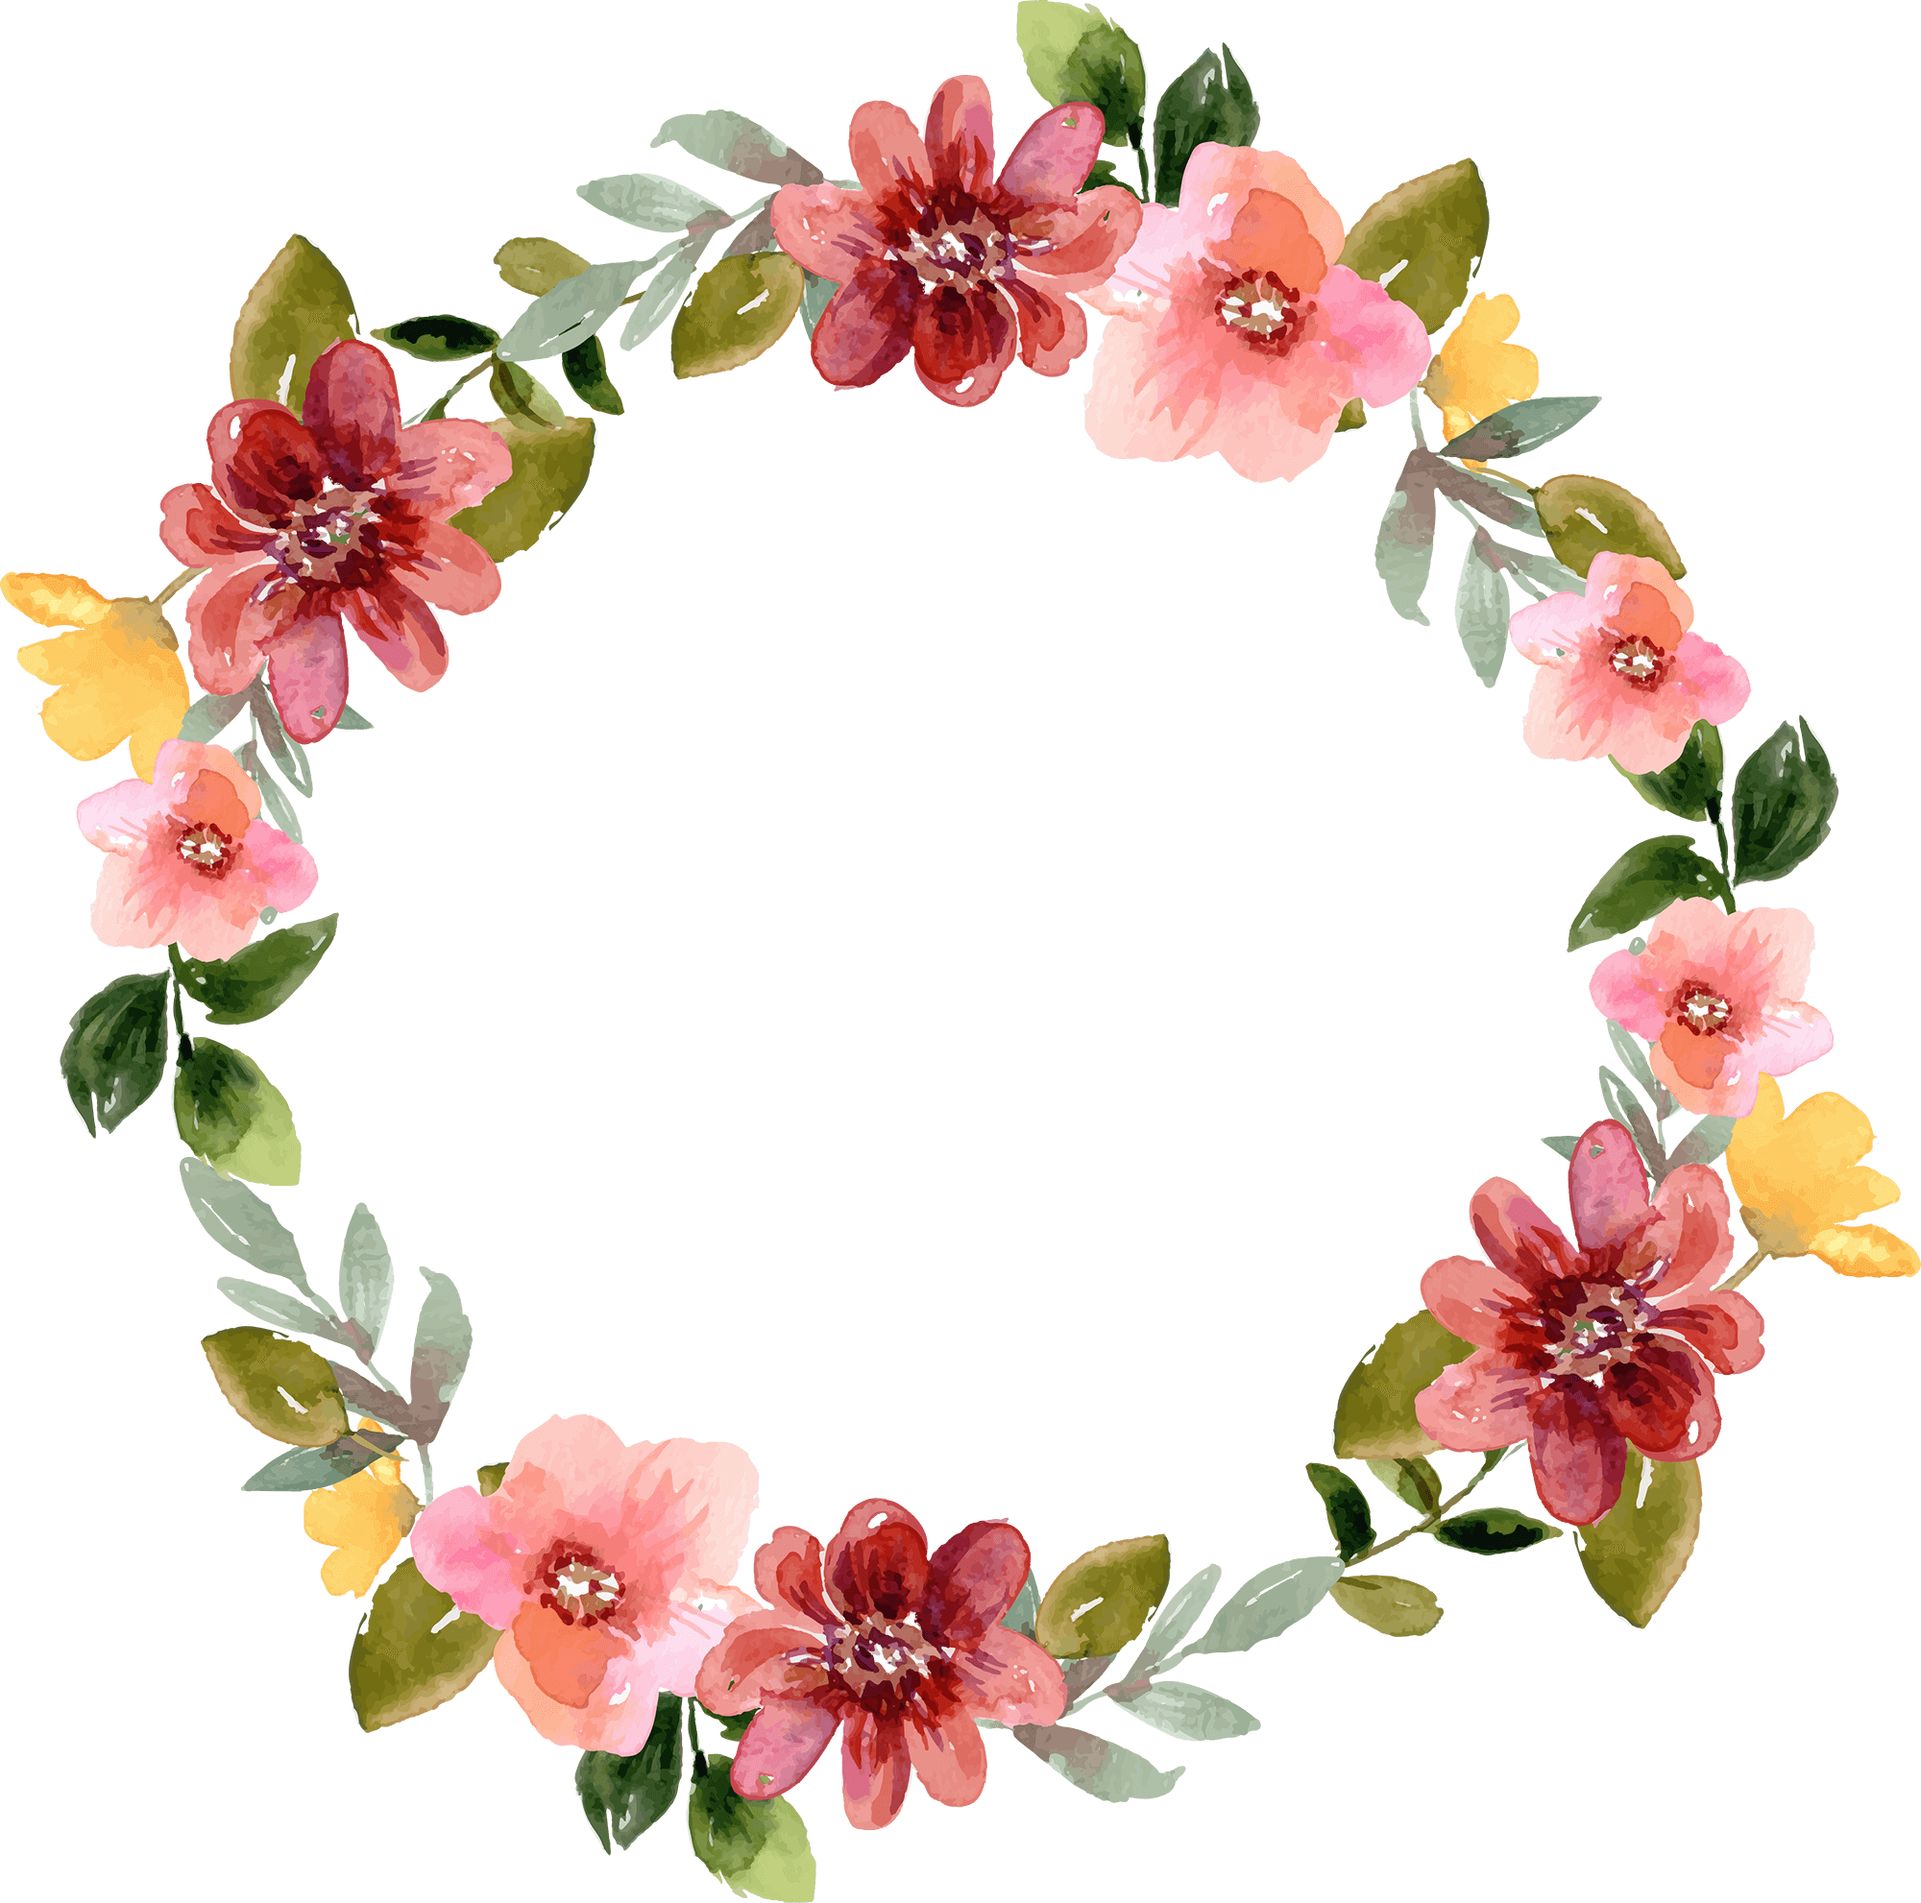
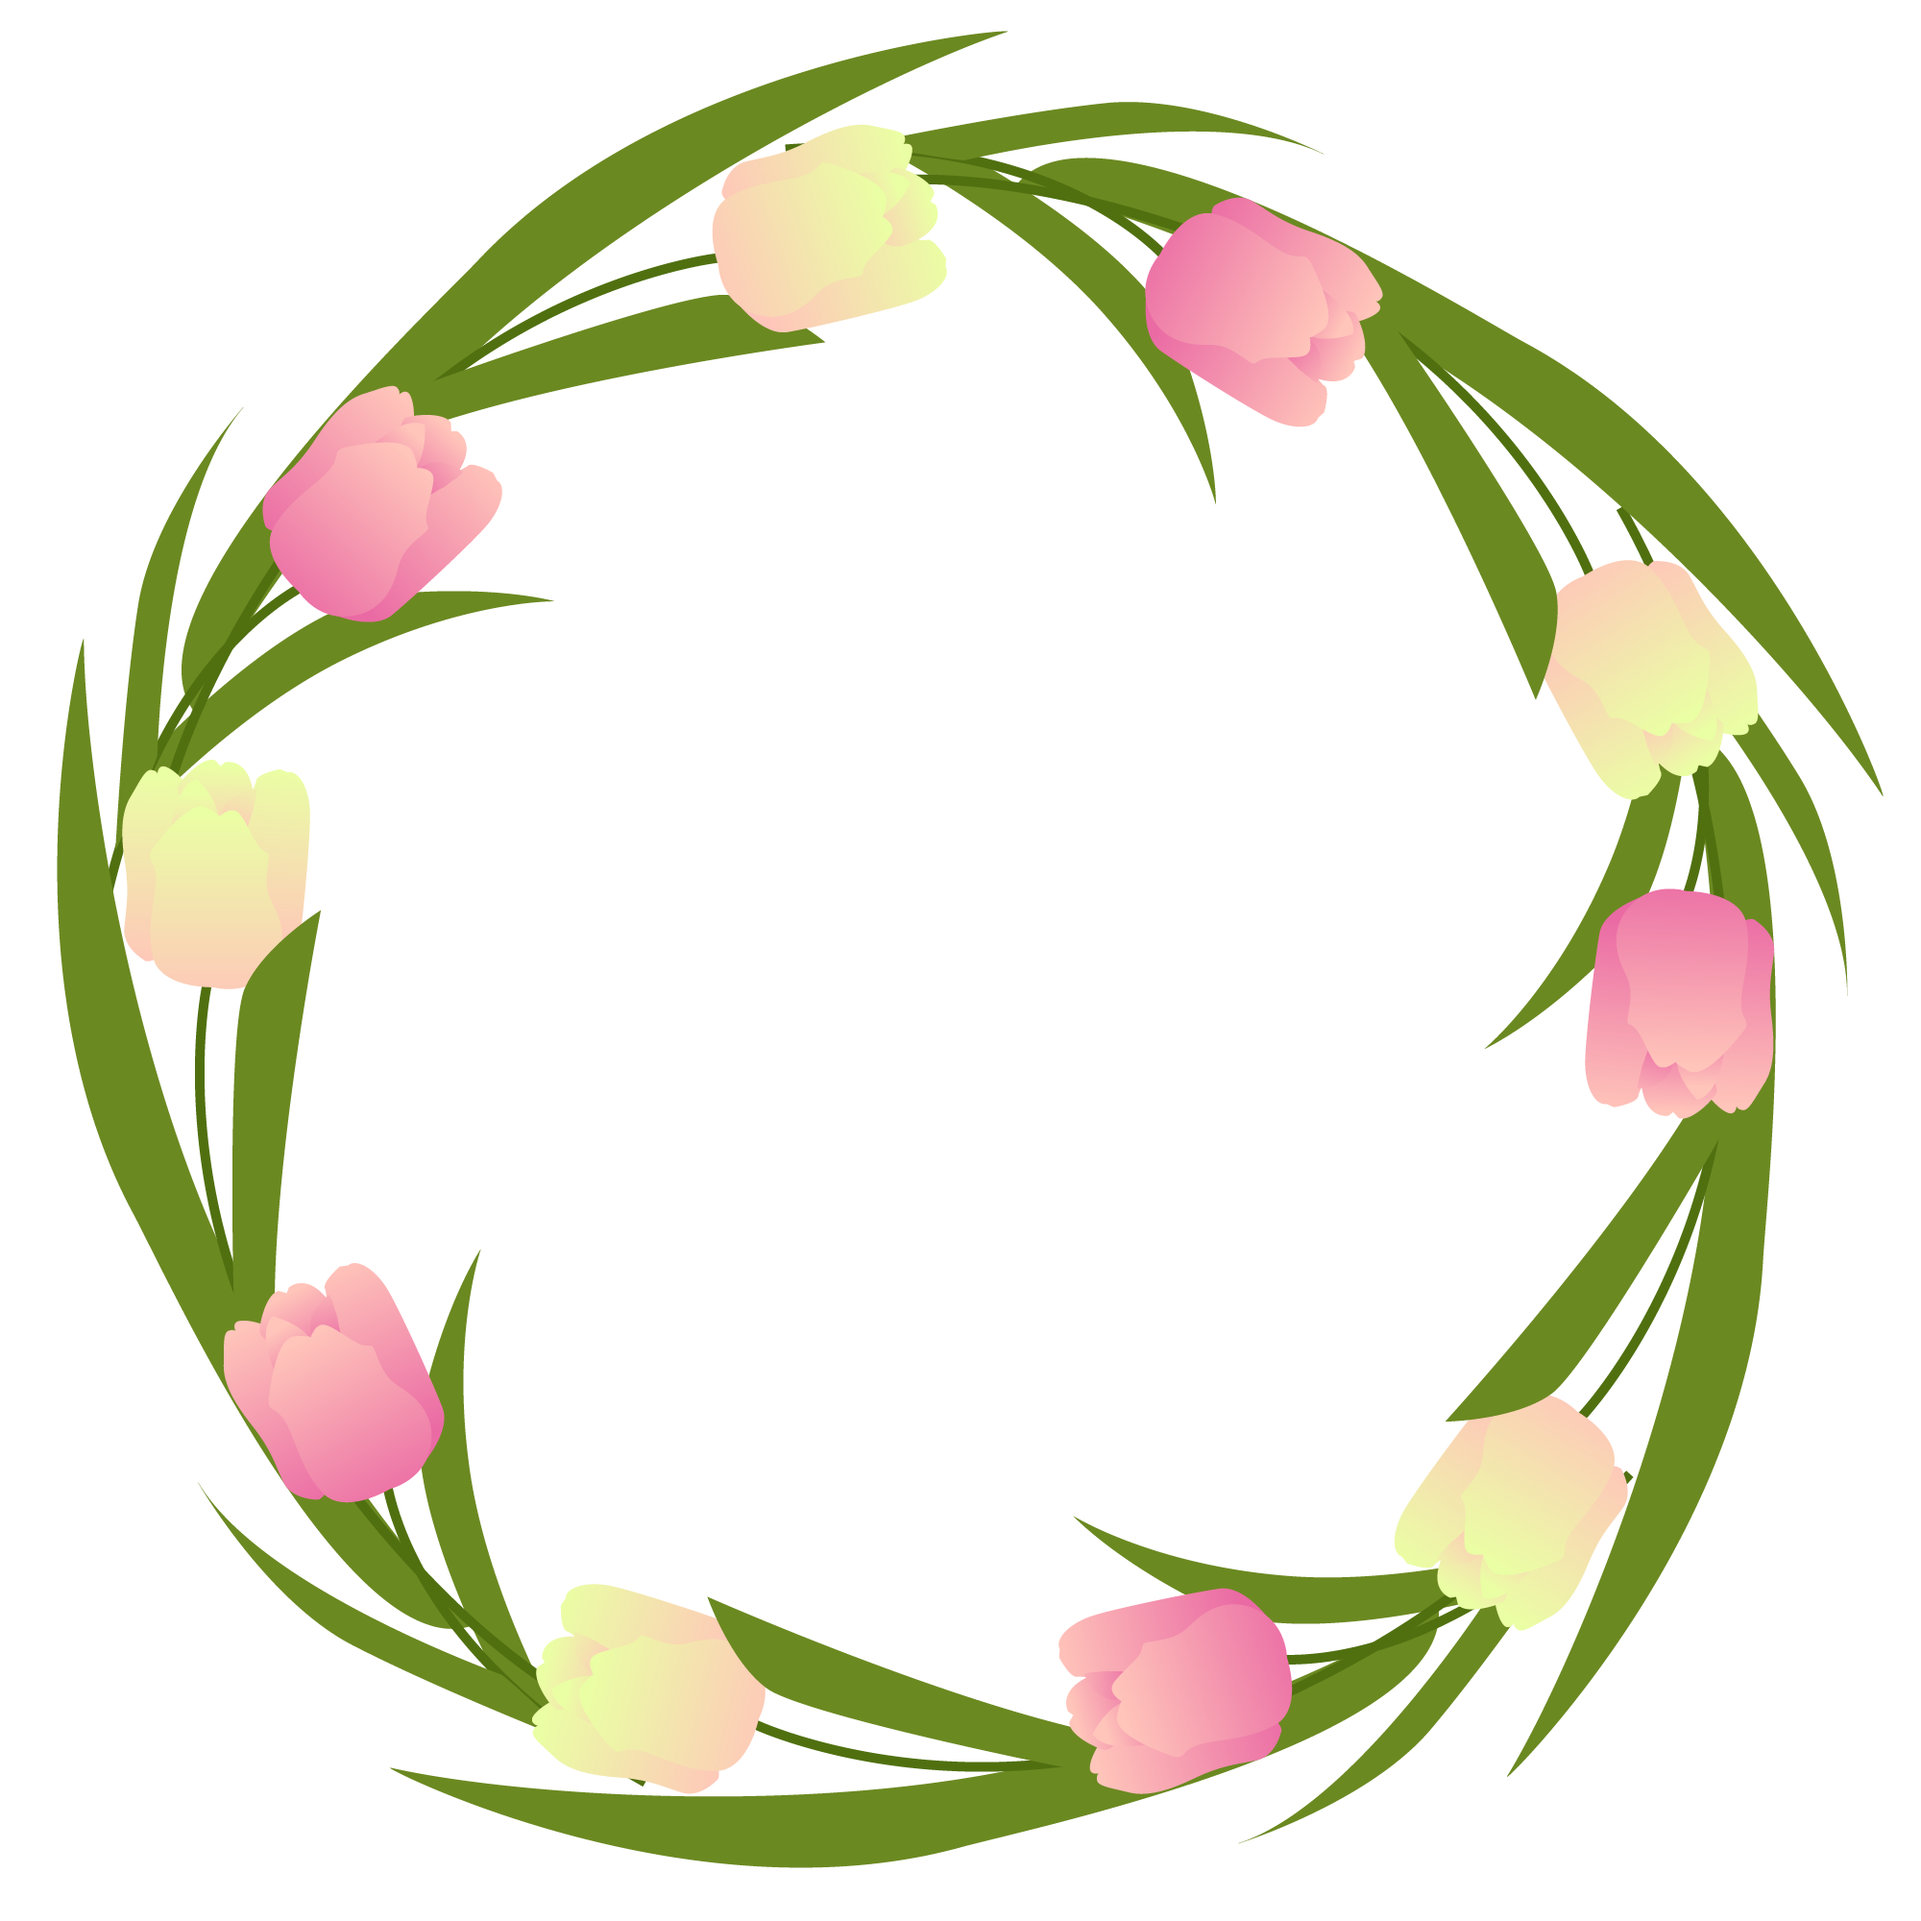
Replace a few art

diff --git a/src/app/components/loading/Loading.tsx b/src/app/components/loading/Loading.tsx
@@ -20,7 +20,7 @@ export default function Loading({}: Props) {
 			</div>
 			<div className="loading-info">
 				<p>Loading . . .</p>
-				<img src="/decors/circle-flower.png" alt="" />
+				<img src="/decors/subsitute.png" alt="" />
 			</div>
 		</div>
 	)

diff --git a/src/app/globals.scss b/src/app/globals.scss
@@ -58,7 +58,7 @@ main{
 	// object-fit: cover;
 	background-attachment: fixed;
 	background-position: 500px 0%;
-	filter: blur(.2vw);
+	filter: blur(.25vw);
 	scale: 1.02;
 	animation: looksky 250s infinite linear;
 	z-index: -1001;

diff --git a/src/app/components/loading/loading.scss b/src/app/components/loading/loading.scss
@@ -54,6 +54,8 @@
 			color: #F5AEB0;
 			font-weight: bold;
 			animation: blink 1s infinite ease alternate-reverse;
+			position:relative;
+			z-index:10;
 		}
 		@keyframes blink {
 			0%{

diff --git a/src/app/components/navigation/navigation.scss b/src/app/components/navigation/navigation.scss
@@ -121,7 +121,7 @@
 				left: -70px;
 				bottom: -60px;
 
-				animation: speen 55s infinite linear;
+				animation: speen 55s infinite linear reverse;
 			}
 		}
 		&:hover{
